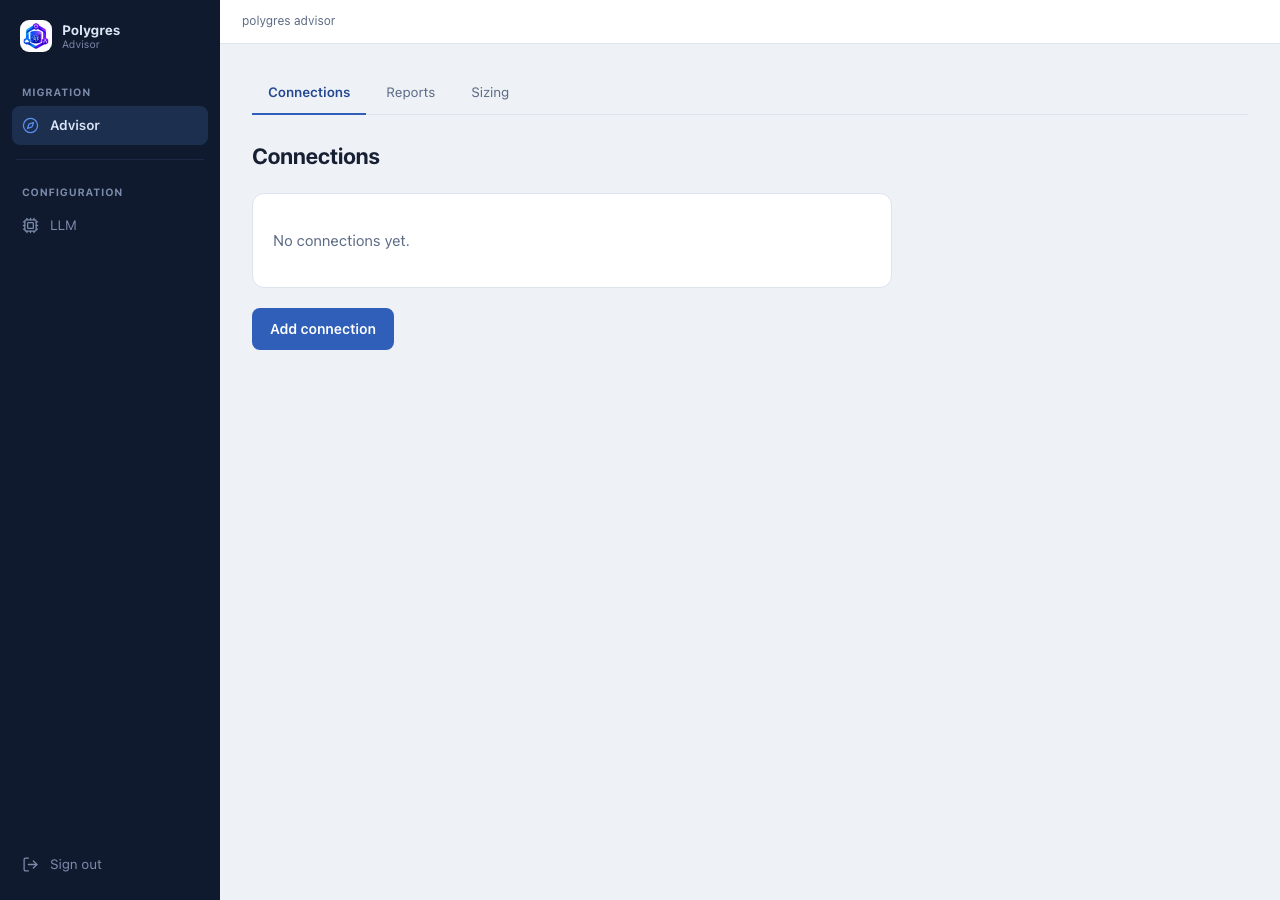
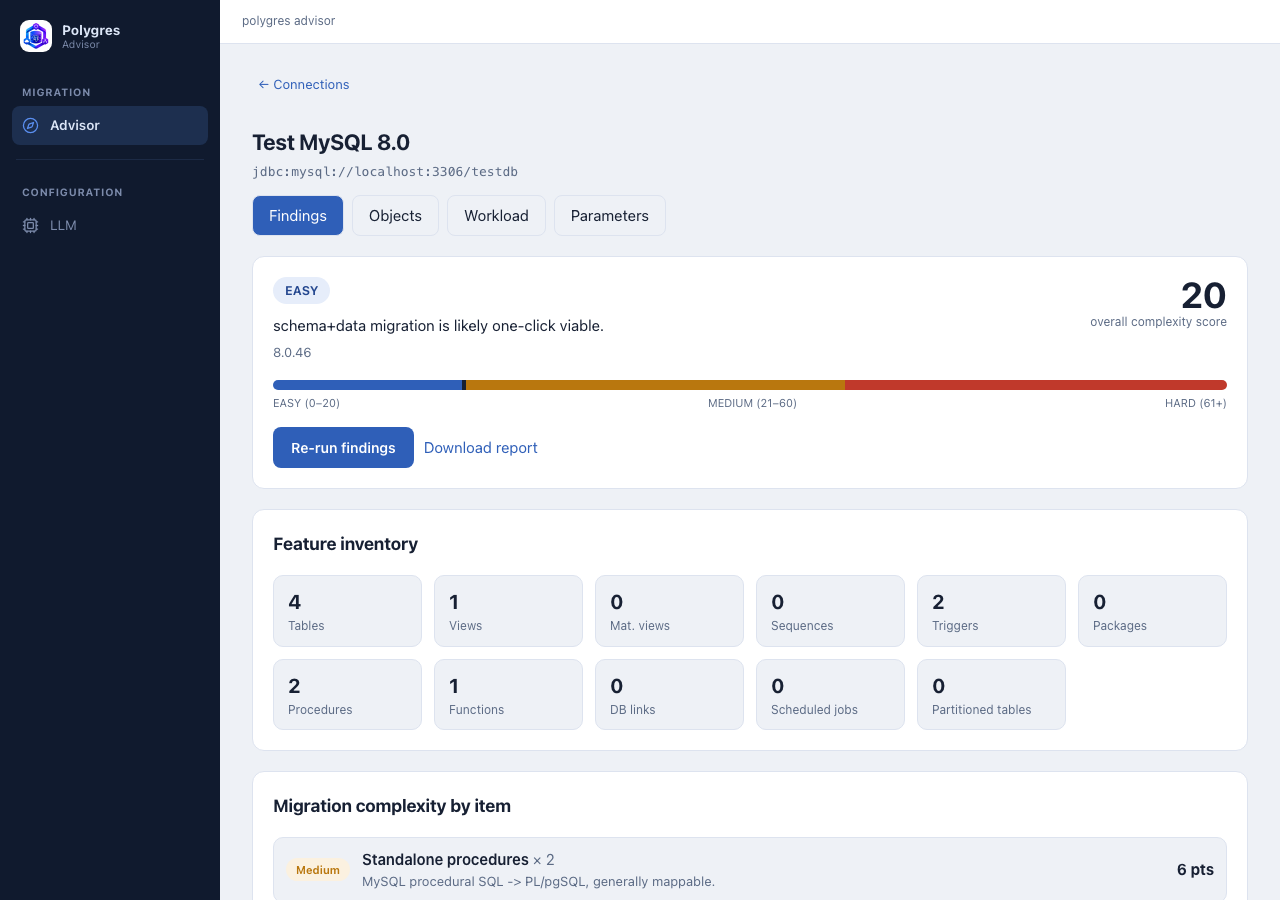
Test PolyAdvisor end-to-end, recapture screenshots, richen index.html
Ran PolyAdvisor's actual feature set live against a real MySQL 8.0
database (schema with tables/views/triggers/procedures/functions, real
query traffic) rather than trusting the existing marketing copy:
connection CRUD, the Findings dashboard (score, feature inventory,
itemized complexity breakdown), Objects browsing (schema + routine
definitions), Workload capture summary, Parameters inspection, the
Sizing calculator (both from-connection and from-report paths), the
LLM configuration page, and the downloadable findings PDF report
(fetched live and inspected -- a real generated PDF, not a stub).

- The one existing screenshot (docs/admin-polyadvisor.png) showed only
  the empty Connections landing page -- replaced with a real capture of
  the Findings dashboard against a live MySQL connection (EASY tier,
  score 20, full feature inventory and per-item complexity breakdown).
- Added docs/polyadvisor-sizing.png -- the Sizing tab's real output
  (2 vCPUs / 12 GB / 20 GB / 3,000 IOPS) with its caveats and
  line-by-line rationale, a capability the page never showed before.
- "What you get" list: added the Objects/Workload/Parameters browsing
  tabs and PL/SQL summarization (both real, wired features the page
  never mentioned) alongside the existing score/inventory/report/sizing
  items.
- Added an honest caveat paragraph: saved connection credentials are
  stored as-is today (encryption at rest planned, not yet built), single
[…]

diff --git a/docker/index.html b/docker/index.html
@@ -481,11 +481,20 @@
 
       <h3 class="subhead">What you get</h3>
       <ul class="whatyouget">
-        <li><span class="wg-body"><span class="wg-title">Migration difficulty score and tier</span><span class="wg-desc">Reproducible and rules-based.</span></span></li>
+        <li><span class="wg-body"><span class="wg-title">Migration difficulty score and tier</span><span class="wg-desc">Reproducible and rules-based — run it twice against the same database, get the same score and the same itemized breakdown behind it.</span></span></li>
         <li><span class="wg-body"><span class="wg-title">Feature inventory</span><span class="wg-desc">PL/SQL packages, triggers, procedures, partitioning, database links, scheduled jobs, and more, each weighted by real migration cost.</span></span></li>
-        <li><span class="wg-body"><span class="wg-title">Downloadable findings report (PDF)</span><span class="wg-desc">Built for sharing with a stakeholder.</span></span></li>
-        <li><span class="wg-body"><span class="wg-title">Postgres sizing recommendation</span><span class="wg-desc">vCPUs, memory, storage, and IOPS, with a plain-English reason behind every number.</span></span></li>
+        <li><span class="wg-body"><span class="wg-title">Schema, workload, and parameter browsing</span><span class="wg-desc">Drill into any table, view, procedure, or function's real definition; a captured-query-workload summary (top SQL by cost, executions, buffer gets); and the source database's full configuration parameter list, filterable — all read-only, all from the same connection.</span></span></li>
+        <li><span class="wg-body"><span class="wg-title">Downloadable findings report (PDF)</span><span class="wg-desc">Generated live from the current scan, built for sharing with a stakeholder who'll never open the app.</span></span></li>
+        <li><span class="wg-body"><span class="wg-title">Postgres sizing recommendation</span><span class="wg-desc">vCPUs, memory, storage, and IOPS from a live connection's schema size and captured workload — or from an uploaded report's signals — with the caveats and the reasoning behind every number spelled out, not just the numbers themselves.</span></span></li>
+        <li><span class="wg-body"><span class="wg-title">PL/SQL summarization (Oracle sources)</span><span class="wg-desc">An LLM explains what a package or procedure actually does in plain English, with an optional second-opinion "judge" model for a review pass — advisory only, layered on top of the rules-based score, never replacing it.</span></span></li>
       </ul>
+      <p class="rttNote">
+        <b>Where PolyAdvisor is still early:</b> saved connection credentials are stored as-is
+        today — encryption at rest is planned but not yet built, so treat this like any other tool
+        you'd point at a database with a password in a config file. There's a single shared admin
+        account, no per-user roles or SSO yet. Worth knowing before you point it at anything you
+        wouldn't otherwise put in a plaintext config.
+      </p>
 
       <div class="runblock">
         <p>Quick start:</p>
@@ -496,8 +505,12 @@
 
       <h3 class="subhead">Admin console</h3>
       <figure>
-        <img src="docs/admin-polyadvisor.png" alt="PolyAdvisor's admin console: a sidebar with Advisor (Connections, Reports, Sizing tabs) under Migration and LLM configuration under Shared, showing an empty Connections list with an Add connection button">
-        <figcaption>PolyAdvisor's own admin app — add a database connection or upload a report, then move between Connections, Reports, and Sizing from the same sidebar.</figcaption>
+        <img src="docs/admin-polyadvisor.png" alt="PolyAdvisor's Findings dashboard for a connected MySQL 8.0 database: an EASY complexity tier with an overall score of 20 on a 0-100+ scale, a feature inventory (tables, views, triggers, procedures, functions), and an itemized migration-complexity breakdown per feature with per-item point costs and plain-English rationale">
+        <figcaption>PolyAdvisor's Findings dashboard against a real MySQL 8.0 connection — complexity tier, overall score, feature inventory, and the itemized per-feature breakdown behind that score, each line with its own point cost and reasoning. The same connection also has Objects (schema/routine browsing), Workload (captured query summary), and Parameters (full config inspection) tabs alongside this one.</figcaption>
+      </figure>
+      <figure>
+        <img src="docs/polyadvisor-sizing.png" alt="PolyAdvisor's Sizing recommendation for the same connection: a SMALL tier with 2 vCPUs, 12 GB memory, 20 GB storage, 3,000 storage IOPS, and 100 max_connections, plus a caveats box and a rationale list explaining each number">
+        <figcaption>Sizing recommendation for the same connection — a starting-point Postgres instance shape built from a fresh schema-size scan and workload capture, with the caveats and the line-by-line rationale behind every number shown alongside it, not hidden behind a tooltip.</figcaption>
       </figure>
     </section>
 
